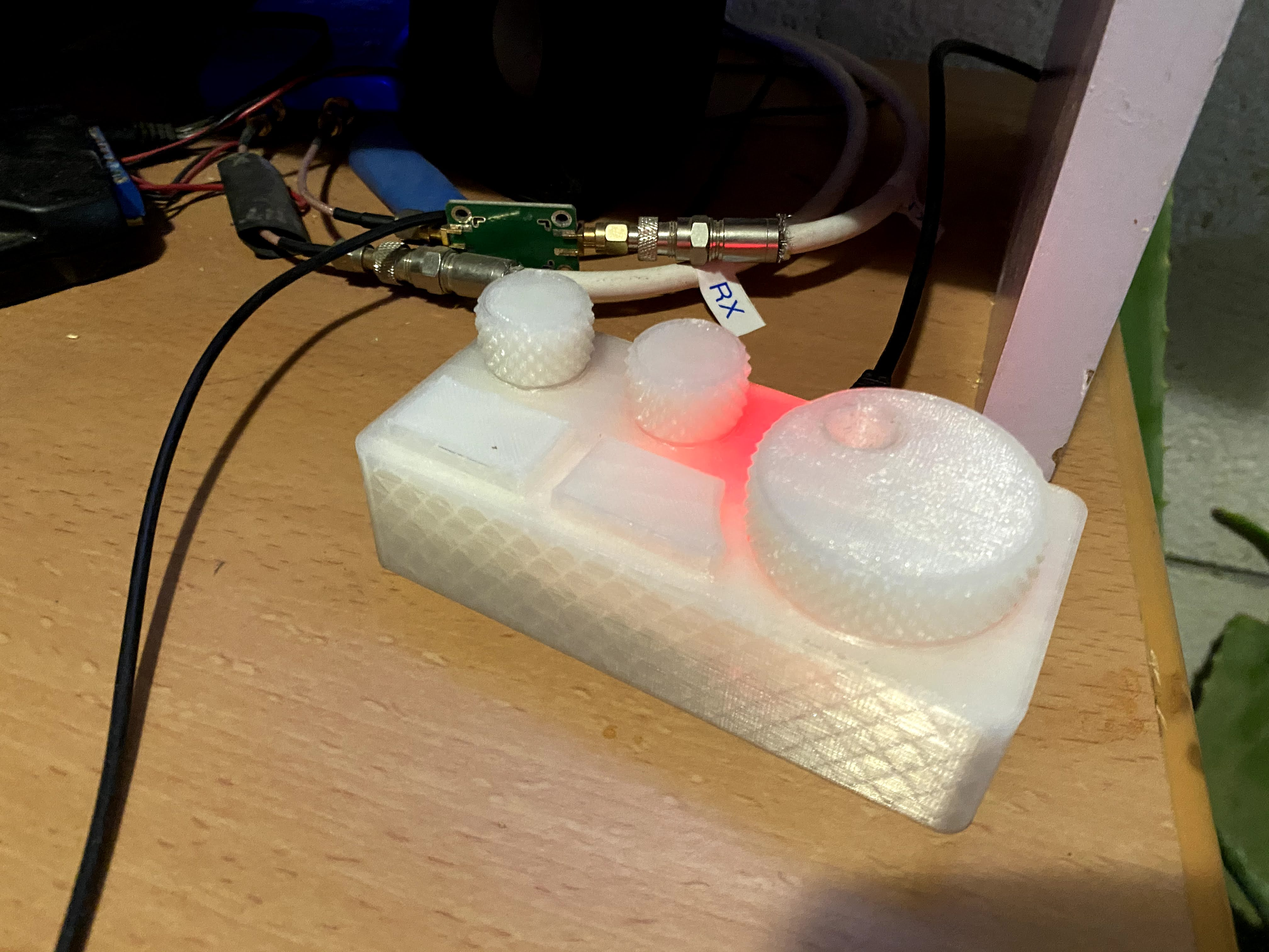
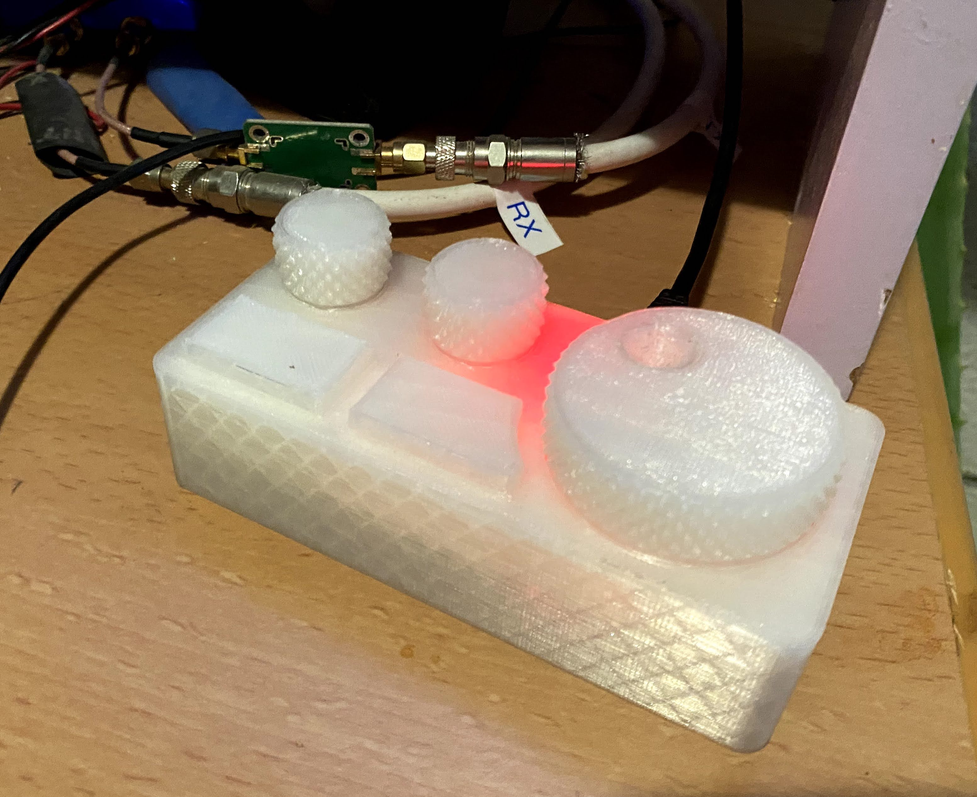
added photos

diff --git a/README.md b/README.md
@@ -1,7 +1,7 @@
 # dj-midi-controller
 
 this is a project to build a dj style controller for use with SDR-Console softare used by ham radio operators
-![image here](doc/isometric.png)
+![image here](doc/IMG_1016.jpg)
 ## data files
 there are three folders :
 - eagle for the pcb design
